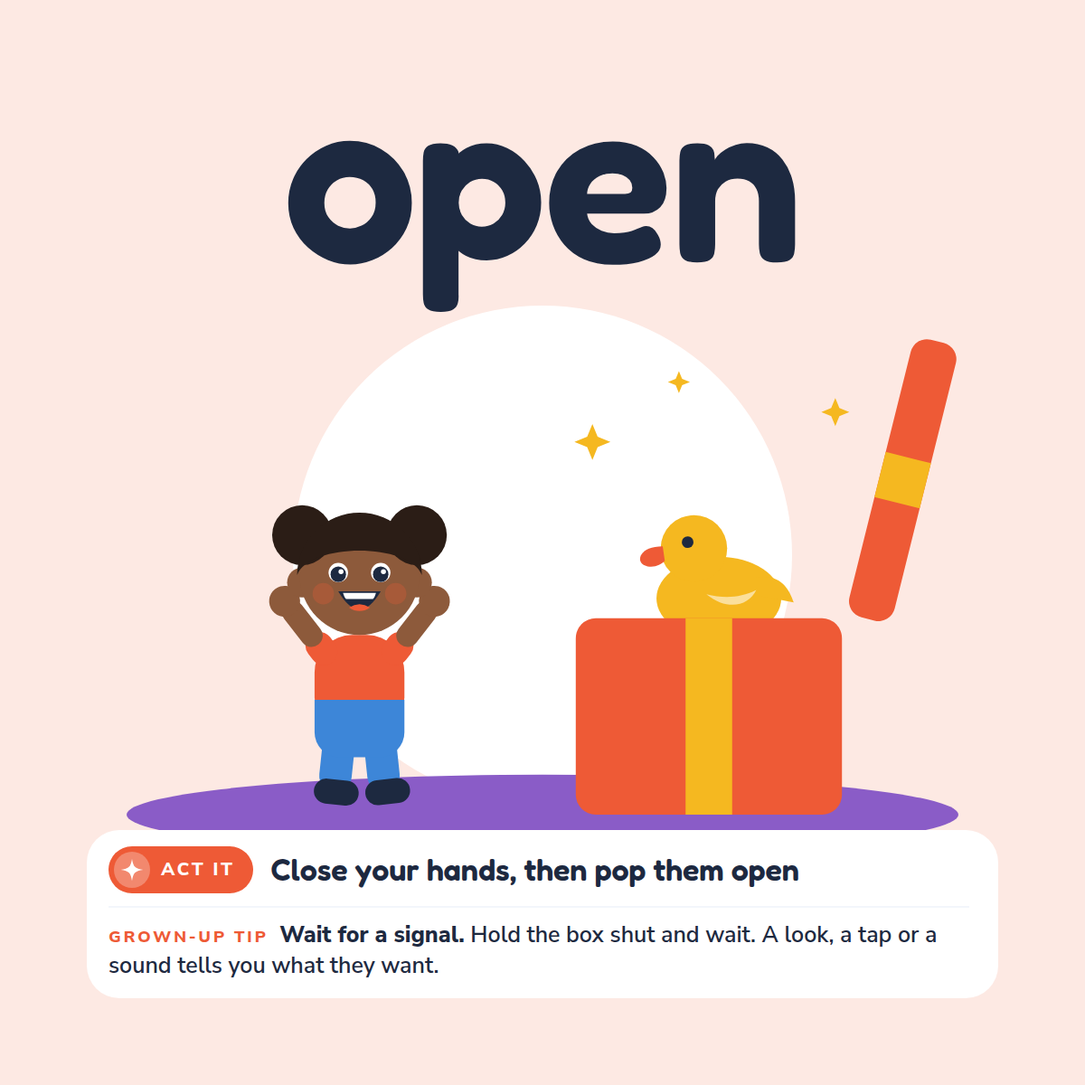
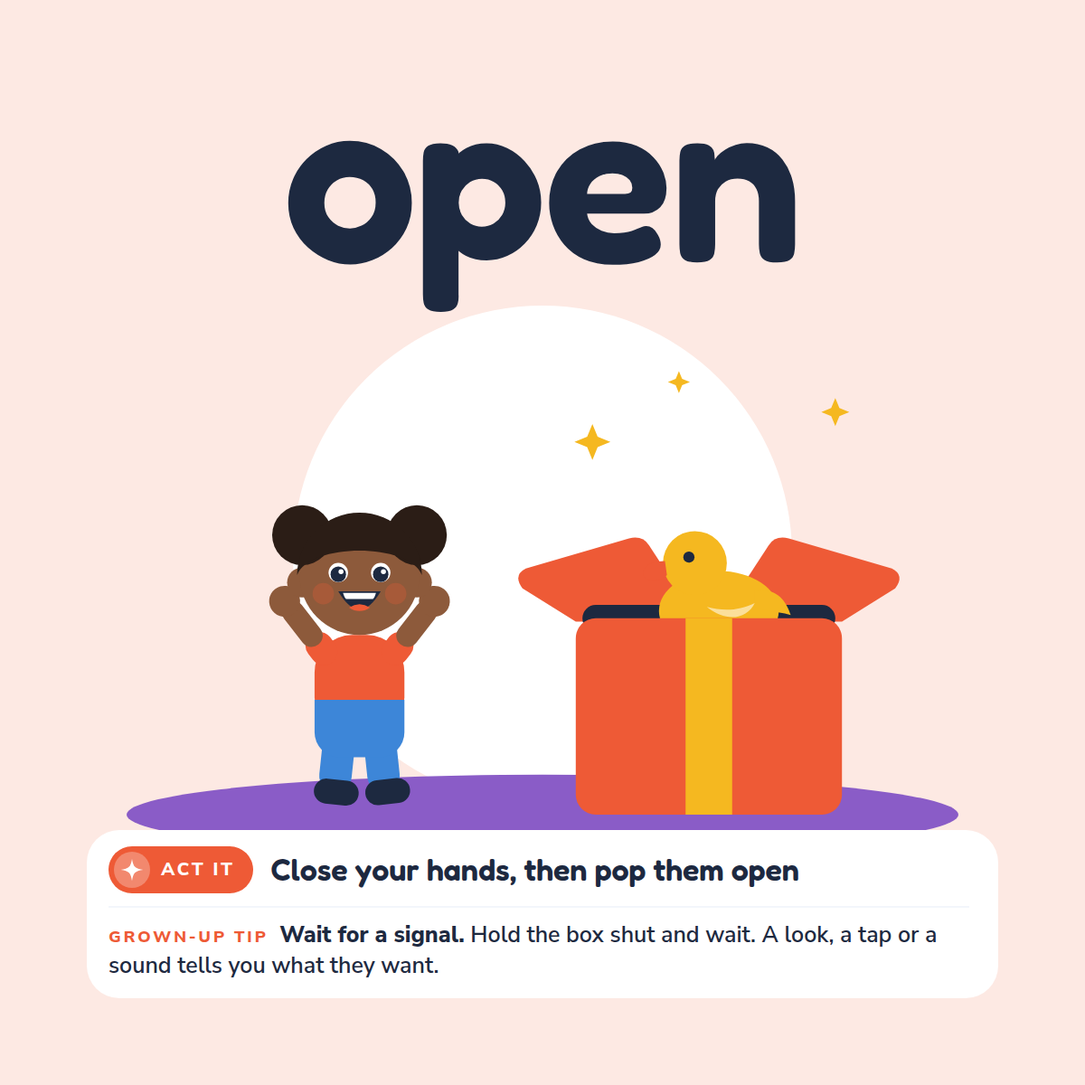
Save latest in-progress workflow output
Claude-Session: https://claude.ai/code/session_013mm46m7T8HwJboSANTcNw4

Changed region(s): [[0.4625, 0.3083, 0.8942, 0.5858]]

diff --git a/products/bored-play-cards/build/build.js b/products/bored-play-cards/build/build.js
@@ -58,15 +58,16 @@ function card(cd, key, num, opts = {}) {
   if (isMini && /^1/.test(cd.a || '') && !/toilet/.test(safe)) safe += ' Under-3s: items bigger than a toilet-paper tube.';
   const numTxt = isMini ? `${key === 'summer' ? 'Summer' : 'Rainy'} · ${String(num).padStart(2, '0')}` : `${band.ages} · ${String(num).padStart(2, '0')}`;
   const seasonIc = isMini ? `<span class="ss">${icon(key === 'summer' ? 'sun' : 'rain', 'ssi')}</span>` : '';
-  return `<div class="card" style="${tvars(th)}"${opts.id ? ` id="${opts.id}"` : ''}><div class="panel">
-  <div class="hd"><span class="age">${seasonIc}${ageTxt}</span><span class="en">${meter(cd.e)}${ENERGY[cd.e]}</span></div>
-  <div class="ti"><div class="tt"><div class="cat">${CATS[cd.c].name}</div><h3>${esc(cd.t)}</h3></div><span class="ci">${icon(cd.c)}</span></div>
+  const M = n => opts.marks ? `<span class="mk m${n}">${n}</span>` : '';
+  return `<div class="card${opts.marks ? ' marked' : ''}" style="${tvars(th)}"${opts.id ? ` id="${opts.id}"` : ''}><div class="panel">
+  <div class="hd"><span class="age">${M(1)}${seasonIc}${ageTxt}</span><span class="en">${M(2)}${meter(cd.e)}${ENERGY[cd.e]}</span></div>
+  <div class="ti"><div class="tt"><div class="cat">${CATS[cd.c].name}</div><h3>${esc(cd.t)}</h3></div><span class="ci">${M(3)}${icon(cd.c)}</span></div>
   <div class="bd">
-    <div class="row"><b>You need</b><p>${esc(cd.n)}</p></div>
-    <div class="row"><b>Try it</b><p>${esc(cd.d)}</p></div>
-    <div class="talk">${icon('talk', 'ti2')}<div><b>Talk</b><p>${esc(cd.k)}</p></div></div>
+    <div class="row">${M(4)}<b>You need</b><p>${esc(cd.n)}</p></div>
+    <div class="row">${M(5)}<b>Try it</b><p>${esc(cd.d)}</p></div>
+    <div class="talk">${M(6)}${icon('talk', 'ti2')}<div><b>Talk</b><p>${esc(cd.k)}</p></div></div>
   </div>
-  <div class="ft">${icon('safe', 'si')}<span>${esc(safe)}</span><i>${numTxt}</i></div>
+  <div class="ft">${M(7)}${icon('safe', 'si')}<span>${esc(safe)}</span><i>${numTxt}</i></div>
 </div></div>`;
 }
 
@@ -351,14 +352,12 @@ function anatomyPage() {
     [6, 'Talk', 'One thing to say or ask while you play.'],
     [7, 'Safety line', 'Read it before you start, every time.'],
   ];
-  const pos = [[18, 12], [202, 12], [218, 46], [14, 104], [14, 146], [14, 236], [14, 296]];
-  const dots = pos.map(([x, y], i) => `<span class="mk" style="left:${x}px;top:${y}px">${i + 1}</span>`).join('');
   const bands = BANDS.map(b => `<div class="bdg" style="background:${TH[b.key].t}"><span style="background:${TH[b.key].m}"></span><b>${b.label}</b></div>`).join('');
   const energies = [['c', 'Calm', 'Sit-down play for winding down, quiet mornings and before bed.'], ['m', 'Medium', 'Up-and-about play: pretend, building, helping, walks.'], ['w', 'Wiggly', 'Big-body play for burning energy, indoors or out.']];
   const cats = Object.entries(CATS).map(([k, v]) => `<div class="ct">${icon(k)}<span>${v.name}</span></div>`).join('');
   const body = `
   <div class="an">
-    <div class="an-card"><div class="scale">${card(sample, 'b35', 17)}${dots}</div></div>
+    <div class="an-card"><div class="scale">${card(sample, 'b35', 17, { marks: true })}</div></div>
     <div class="an-leg">${marks.map(([n, h, t]) => `<div class="lg"><span class="mk s">${n}</span><div><h4>${h}</h4><p>${t}</p></div></div>`).join('')}</div>
   </div>
   <div class="an-row"><span class="kick">Four age bands</span><div class="bands">${bands}<div class="bdg" style="background:${C.tTomato}"><span style="background:${C.tomato}"></span><b>Summer</b></div><div class="bdg" style="background:${C.wash}"><span style="background:${C.ink}"></span><b>Rainy day</b></div></div>
@@ -370,8 +369,15 @@ function anatomyPage() {
 }
 const anatomyCss = `<style>
 .an{display:flex;gap:26px;align-items:flex-start;margin-bottom:14px}
-.an-card{flex:0 0 3.5in;height:4.9in;position:relative}
+.an-card{flex:0 0 3.5in;height:4.75in;position:relative;margin-left:8px}
 .an-card .scale{position:absolute;left:0;top:0;width:240px;height:336px;transform:scale(1.4);transform-origin:0 0}
+.marked .panel{overflow:visible}.marked .hd{border-radius:11px 11px 0 0}
+.marked .age,.marked .en,.marked .ci,.marked .row,.marked .talk,.marked .ft{position:relative}
+.mk.m1,.mk.m4,.mk.m5,.mk.m6,.mk.m7{left:-27px;top:50%;transform:translateY(-50%)}
+.mk.m4,.mk.m5{top:0;transform:none}
+.mk.m2,.mk.m3{right:-24px;top:50%;transform:translateY(-50%)}
+.mk.m3{right:-30px}
+.mk.m1{left:-26px}
 .mk{position:absolute;width:17px;height:17px;border-radius:50%;background:${C.tomato};color:#fff;font-weight:800;font-size:10px;display:flex;align-items:center;justify-content:center;box-shadow:0 0 0 2px #fff;z-index:3}
 .mk.s{position:static;flex:0 0 24px;width:24px;height:24px;font-size:12.5px;box-shadow:none}
 .an-leg{flex:1;padding-top:4px}

diff --git a/products/board-up-go-more/paperback/preview-trim.html b/products/board-up-go-more/paperback/preview-trim.html
@@ -307,8 +307,10 @@ symbol{overflow:visible}
     <p class="tip"><span class="lab">Grown-up tip</span> <strong>Repeat it.</strong> Drop blocks in one at a time: “in… in… in!” Words heard again and again are easier to try.</p>
   </div></div></section>
 <section class="page pbp"><div class="pg word-page" style="position:absolute;top:-12px;left:-12px;transform:scale(1.4);transform-origin:0 0">
-  <svg class="art" viewBox="0 0 600 600" preserveAspectRatio="none" role="img" aria-label="open"><rect x="-20" y="-20" width="640" height="640" fill="#FDE9E3"/><g transform="translate(300,180) scale(.92) translate(-300,-180)"><rect x="0" y="0" width="600" height="600" fill="#FDE9E3"/><circle cx="300" cy="318" r="150" fill="#FFFFFF"/><ellipse cx="300" cy="474" rx="250" ry="24" fill="#8A5CC7"/><use href="#duck" transform="translate(406,334) scale(1.25)" /><rect x="320" y="356" width="160" height="118" rx="12" fill="#EE5A36"/>
-    <rect x="386" y="356" width="28" height="118" fill="#F5B820"/><g transform="rotate(104 486 354)"><rect x="314" y="330" width="172" height="28" rx="10" fill="#EE5A36"/><rect x="386" y="330" width="28" height="28" fill="#F5B820"/></g><g style="--sk:#8D5A3B;--hr:#2B1D16;--sh:#EE5A36;--pa:#3D86D8;--so:#1D2940;--hw:#F5B820" transform="translate(190,433.5) scale(1.5,1.5)"><use href="#t-leg" transform="translate(-8,-4) rotate(6)" /><use href="#t-leg" transform="translate(8,-4) rotate(-6)" /><use href="#t-body" transform="" /><use href="#t-arm" transform="translate(-14,-38) rotate(142)" /><use href="#t-arm" transform="translate(14,-38) rotate(-142)" /><g transform="translate(0,-69) rotate(0)"><use href="#t-head" transform="" /><use href="#face-laugh" transform="" /><use href="#h-puffs" transform="" /></g></g><g transform="translate(330,250) scale(0.9)"><use href="#star"/></g><g transform="translate(476,232) scale(0.7)"><use href="#star"/></g><g transform="translate(382,214) scale(0.55)"><use href="#star"/></g></g></svg>
+  <svg class="art" viewBox="0 0 600 600" preserveAspectRatio="none" role="img" aria-label="open"><rect x="-20" y="-20" width="640" height="640" fill="#FDE9E3"/><g transform="translate(300,180) scale(.92) translate(-300,-180)"><rect x="0" y="0" width="600" height="600" fill="#FDE9E3"/><circle cx="300" cy="318" r="150" fill="#FFFFFF"/><ellipse cx="300" cy="474" rx="250" ry="24" fill="#8A5CC7"/><path d="M320 358L394 358L364 312Q360 306 352 308L290 326Q282 330 288 338Z" fill="#EE5A36"/>
+    <path d="M480 358L406 358L436 312Q440 306 448 308L510 326Q518 330 512 338Z" fill="#EE5A36"/>
+    <rect x="324" y="348" width="152" height="16" rx="8" fill="#1D2940"/><use href="#duck" transform="translate(406,342) scale(1.2)" /><rect x="320" y="356" width="160" height="118" rx="12" fill="#EE5A36"/>
+    <rect x="386" y="356" width="28" height="118" fill="#F5B820"/><g style="--sk:#8D5A3B;--hr:#2B1D16;--sh:#EE5A36;--pa:#3D86D8;--so:#1D2940;--hw:#F5B820" transform="translate(190,433.5) scale(1.5,1.5)"><use href="#t-leg" transform="translate(-8,-4) rotate(6)" /><use href="#t-leg" transform="translate(8,-4) rotate(-6)" /><use href="#t-body" transform="" /><use href="#t-arm" transform="translate(-14,-38) rotate(142)" /><use href="#t-arm" transform="translate(14,-38) rotate(-142)" /><g transform="translate(0,-69) rotate(0)"><use href="#t-head" transform="" /><use href="#face-laugh" transform="" /><use href="#h-puffs" transform="" /></g></g><g transform="translate(330,250) scale(0.9)"><use href="#star"/></g><g transform="translate(476,232) scale(0.7)"><use href="#star"/></g><g transform="translate(382,214) scale(0.55)"><use href="#star"/></g></g></svg>
   <h2 class="word" style="font-size:132px">open</h2>
   <div class="card" style="--acc:#EE5A36">
     <div class="cue"><span class="chip"><svg viewBox="-16 -16 32 32" aria-hidden="true"><circle r="16" fill="currentColor"/><g transform="scale(.82)"><use href="#spark"/></g></svg>Act it</span><span class="cue-tx">Close your hands, then pop them open</span></div>

diff --git a/products/board-up-go-more/paperback/source.html b/products/board-up-go-more/paperback/source.html
@@ -307,8 +307,10 @@ symbol{overflow:visible}
     <p class="tip"><span class="lab">Grown-up tip</span> <strong>Repeat it.</strong> Drop blocks in one at a time: “in… in… in!” Words heard again and again are easier to try.</p>
   </div></div></section>
 <section class="page pbp"><div class="pg word-page" style="position:absolute;top:0;left:-12px;transform:scale(1.4);transform-origin:0 0">
-  <svg class="art" viewBox="0 0 600 600" preserveAspectRatio="none" role="img" aria-label="open"><rect x="-20" y="-20" width="640" height="640" fill="#FDE9E3"/><g transform="translate(300,180) scale(.92) translate(-300,-180)"><rect x="0" y="0" width="600" height="600" fill="#FDE9E3"/><circle cx="300" cy="318" r="150" fill="#FFFFFF"/><ellipse cx="300" cy="474" rx="250" ry="24" fill="#8A5CC7"/><use href="#duck" transform="translate(406,334) scale(1.25)" /><rect x="320" y="356" width="160" height="118" rx="12" fill="#EE5A36"/>
-    <rect x="386" y="356" width="28" height="118" fill="#F5B820"/><g transform="rotate(104 486 354)"><rect x="314" y="330" width="172" height="28" rx="10" fill="#EE5A36"/><rect x="386" y="330" width="28" height="28" fill="#F5B820"/></g><g style="--sk:#8D5A3B;--hr:#2B1D16;--sh:#EE5A36;--pa:#3D86D8;--so:#1D2940;--hw:#F5B820" transform="translate(190,433.5) scale(1.5,1.5)"><use href="#t-leg" transform="translate(-8,-4) rotate(6)" /><use href="#t-leg" transform="translate(8,-4) rotate(-6)" /><use href="#t-body" transform="" /><use href="#t-arm" transform="translate(-14,-38) rotate(142)" /><use href="#t-arm" transform="translate(14,-38) rotate(-142)" /><g transform="translate(0,-69) rotate(0)"><use href="#t-head" transform="" /><use href="#face-laugh" transform="" /><use href="#h-puffs" transform="" /></g></g><g transform="translate(330,250) scale(0.9)"><use href="#star"/></g><g transform="translate(476,232) scale(0.7)"><use href="#star"/></g><g transform="translate(382,214) scale(0.55)"><use href="#star"/></g></g></svg>
+  <svg class="art" viewBox="0 0 600 600" preserveAspectRatio="none" role="img" aria-label="open"><rect x="-20" y="-20" width="640" height="640" fill="#FDE9E3"/><g transform="translate(300,180) scale(.92) translate(-300,-180)"><rect x="0" y="0" width="600" height="600" fill="#FDE9E3"/><circle cx="300" cy="318" r="150" fill="#FFFFFF"/><ellipse cx="300" cy="474" rx="250" ry="24" fill="#8A5CC7"/><path d="M320 358L394 358L364 312Q360 306 352 308L290 326Q282 330 288 338Z" fill="#EE5A36"/>
+    <path d="M480 358L406 358L436 312Q440 306 448 308L510 326Q518 330 512 338Z" fill="#EE5A36"/>
+    <rect x="324" y="348" width="152" height="16" rx="8" fill="#1D2940"/><use href="#duck" transform="translate(406,342) scale(1.2)" /><rect x="320" y="356" width="160" height="118" rx="12" fill="#EE5A36"/>
+    <rect x="386" y="356" width="28" height="118" fill="#F5B820"/><g style="--sk:#8D5A3B;--hr:#2B1D16;--sh:#EE5A36;--pa:#3D86D8;--so:#1D2940;--hw:#F5B820" transform="translate(190,433.5) scale(1.5,1.5)"><use href="#t-leg" transform="translate(-8,-4) rotate(6)" /><use href="#t-leg" transform="translate(8,-4) rotate(-6)" /><use href="#t-body" transform="" /><use href="#t-arm" transform="translate(-14,-38) rotate(142)" /><use href="#t-arm" transform="translate(14,-38) rotate(-142)" /><g transform="translate(0,-69) rotate(0)"><use href="#t-head" transform="" /><use href="#face-laugh" transform="" /><use href="#h-puffs" transform="" /></g></g><g transform="translate(330,250) scale(0.9)"><use href="#star"/></g><g transform="translate(476,232) scale(0.7)"><use href="#star"/></g><g transform="translate(382,214) scale(0.55)"><use href="#star"/></g></g></svg>
   <h2 class="word" style="font-size:132px">open</h2>
   <div class="card" style="--acc:#EE5A36">
     <div class="cue"><span class="chip"><svg viewBox="-16 -16 32 32" aria-hidden="true"><circle r="16" fill="currentColor"/><g transform="scale(.82)"><use href="#spark"/></g></svg>Act it</span><span class="cue-tx">Close your hands, then pop them open</span></div>

diff --git a/products/board-up-go-more/build/debug-board.html b/products/board-up-go-more/build/debug-board.html
@@ -281,8 +281,10 @@ symbol{overflow:visible}
     <p class="tip"><span class="lab">Grown-up tip</span> <strong>Repeat it.</strong> Drop blocks in one at a time: “in… in… in!” Words heard again and again are easier to try.</p>
   </div></section>
 <section class="page pg word-page">
-  <svg class="art" viewBox="0 0 600 600" preserveAspectRatio="none" role="img" aria-label="open"><rect x="-20" y="-20" width="640" height="640" fill="#FDE9E3"/><g transform="translate(300,180) scale(.92) translate(-300,-180)"><rect x="0" y="0" width="600" height="600" fill="#FDE9E3"/><circle cx="300" cy="318" r="150" fill="#FFFFFF"/><ellipse cx="300" cy="474" rx="250" ry="24" fill="#8A5CC7"/><use href="#duck" transform="translate(406,334) scale(1.25)" /><rect x="320" y="356" width="160" height="118" rx="12" fill="#EE5A36"/>
-    <rect x="386" y="356" width="28" height="118" fill="#F5B820"/><g transform="rotate(104 486 354)"><rect x="314" y="330" width="172" height="28" rx="10" fill="#EE5A36"/><rect x="386" y="330" width="28" height="28" fill="#F5B820"/></g><g style="--sk:#8D5A3B;--hr:#2B1D16;--sh:#EE5A36;--pa:#3D86D8;--so:#1D2940;--hw:#F5B820" transform="translate(190,433.5) scale(1.5,1.5)"><use href="#t-leg" transform="translate(-8,-4) rotate(6)" /><use href="#t-leg" transform="translate(8,-4) rotate(-6)" /><use href="#t-body" transform="" /><use href="#t-arm" transform="translate(-14,-38) rotate(142)" /><use href="#t-arm" transform="translate(14,-38) rotate(-142)" /><g transform="translate(0,-69) rotate(0)"><use href="#t-head" transform="" /><use href="#face-laugh" transform="" /><use href="#h-puffs" transform="" /></g></g><g transform="translate(330,250) scale(0.9)"><use href="#star"/></g><g transform="translate(476,232) scale(0.7)"><use href="#star"/></g><g transform="translate(382,214) scale(0.55)"><use href="#star"/></g></g></svg>
+  <svg class="art" viewBox="0 0 600 600" preserveAspectRatio="none" role="img" aria-label="open"><rect x="-20" y="-20" width="640" height="640" fill="#FDE9E3"/><g transform="translate(300,180) scale(.92) translate(-300,-180)"><rect x="0" y="0" width="600" height="600" fill="#FDE9E3"/><circle cx="300" cy="318" r="150" fill="#FFFFFF"/><ellipse cx="300" cy="474" rx="250" ry="24" fill="#8A5CC7"/><path d="M320 358L394 358L364 312Q360 306 352 308L290 326Q282 330 288 338Z" fill="#EE5A36"/>
+    <path d="M480 358L406 358L436 312Q440 306 448 308L510 326Q518 330 512 338Z" fill="#EE5A36"/>
+    <rect x="324" y="348" width="152" height="16" rx="8" fill="#1D2940"/><use href="#duck" transform="translate(406,342) scale(1.2)" /><rect x="320" y="356" width="160" height="118" rx="12" fill="#EE5A36"/>
+    <rect x="386" y="356" width="28" height="118" fill="#F5B820"/><g style="--sk:#8D5A3B;--hr:#2B1D16;--sh:#EE5A36;--pa:#3D86D8;--so:#1D2940;--hw:#F5B820" transform="translate(190,433.5) scale(1.5,1.5)"><use href="#t-leg" transform="translate(-8,-4) rotate(6)" /><use href="#t-leg" transform="translate(8,-4) rotate(-6)" /><use href="#t-body" transform="" /><use href="#t-arm" transform="translate(-14,-38) rotate(142)" /><use href="#t-arm" transform="translate(14,-38) rotate(-142)" /><g transform="translate(0,-69) rotate(0)"><use href="#t-head" transform="" /><use href="#face-laugh" transform="" /><use href="#h-puffs" transform="" /></g></g><g transform="translate(330,250) scale(0.9)"><use href="#star"/></g><g transform="translate(476,232) scale(0.7)"><use href="#star"/></g><g transform="translate(382,214) scale(0.55)"><use href="#star"/></g></g></svg>
   <h2 class="word" style="font-size:132px">open</h2>
   <div class="card" style="--acc:#EE5A36">
     <div class="cue"><span class="chip"><svg viewBox="-16 -16 32 32" aria-hidden="true"><circle r="16" fill="currentColor"/><g transform="scale(.82)"><use href="#spark"/></g></svg>Act it</span><span class="cue-tx">Close your hands, then pop them open</span></div>

diff --git a/products/board-up-go-more/source.html b/products/board-up-go-more/source.html
@@ -281,8 +281,10 @@ symbol{overflow:visible}
     <p class="tip"><span class="lab">Grown-up tip</span> <strong>Repeat it.</strong> Drop blocks in one at a time: “in… in… in!” Words heard again and again are easier to try.</p>
   </div></section>
 <section class="page pg word-page">
-  <svg class="art" viewBox="0 0 600 600" preserveAspectRatio="none" role="img" aria-label="open"><rect x="-20" y="-20" width="640" height="640" fill="#FDE9E3"/><g transform="translate(300,180) scale(.92) translate(-300,-180)"><rect x="0" y="0" width="600" height="600" fill="#FDE9E3"/><circle cx="300" cy="318" r="150" fill="#FFFFFF"/><ellipse cx="300" cy="474" rx="250" ry="24" fill="#8A5CC7"/><use href="#duck" transform="translate(406,334) scale(1.25)" /><rect x="320" y="356" width="160" height="118" rx="12" fill="#EE5A36"/>
-    <rect x="386" y="356" width="28" height="118" fill="#F5B820"/><g transform="rotate(104 486 354)"><rect x="314" y="330" width="172" height="28" rx="10" fill="#EE5A36"/><rect x="386" y="330" width="28" height="28" fill="#F5B820"/></g><g style="--sk:#8D5A3B;--hr:#2B1D16;--sh:#EE5A36;--pa:#3D86D8;--so:#1D2940;--hw:#F5B820" transform="translate(190,433.5) scale(1.5,1.5)"><use href="#t-leg" transform="translate(-8,-4) rotate(6)" /><use href="#t-leg" transform="translate(8,-4) rotate(-6)" /><use href="#t-body" transform="" /><use href="#t-arm" transform="translate(-14,-38) rotate(142)" /><use href="#t-arm" transform="translate(14,-38) rotate(-142)" /><g transform="translate(0,-69) rotate(0)"><use href="#t-head" transform="" /><use href="#face-laugh" transform="" /><use href="#h-puffs" transform="" /></g></g><g transform="translate(330,250) scale(0.9)"><use href="#star"/></g><g transform="translate(476,232) scale(0.7)"><use href="#star"/></g><g transform="translate(382,214) scale(0.55)"><use href="#star"/></g></g></svg>
+  <svg class="art" viewBox="0 0 600 600" preserveAspectRatio="none" role="img" aria-label="open"><rect x="-20" y="-20" width="640" height="640" fill="#FDE9E3"/><g transform="translate(300,180) scale(.92) translate(-300,-180)"><rect x="0" y="0" width="600" height="600" fill="#FDE9E3"/><circle cx="300" cy="318" r="150" fill="#FFFFFF"/><ellipse cx="300" cy="474" rx="250" ry="24" fill="#8A5CC7"/><path d="M320 358L394 358L364 312Q360 306 352 308L290 326Q282 330 288 338Z" fill="#EE5A36"/>
+    <path d="M480 358L406 358L436 312Q440 306 448 308L510 326Q518 330 512 338Z" fill="#EE5A36"/>
+    <rect x="324" y="348" width="152" height="16" rx="8" fill="#1D2940"/><use href="#duck" transform="translate(406,342) scale(1.2)" /><rect x="320" y="356" width="160" height="118" rx="12" fill="#EE5A36"/>
+    <rect x="386" y="356" width="28" height="118" fill="#F5B820"/><g style="--sk:#8D5A3B;--hr:#2B1D16;--sh:#EE5A36;--pa:#3D86D8;--so:#1D2940;--hw:#F5B820" transform="translate(190,433.5) scale(1.5,1.5)"><use href="#t-leg" transform="translate(-8,-4) rotate(6)" /><use href="#t-leg" transform="translate(8,-4) rotate(-6)" /><use href="#t-body" transform="" /><use href="#t-arm" transform="translate(-14,-38) rotate(142)" /><use href="#t-arm" transform="translate(14,-38) rotate(-142)" /><g transform="translate(0,-69) rotate(0)"><use href="#t-head" transform="" /><use href="#face-laugh" transform="" /><use href="#h-puffs" transform="" /></g></g><g transform="translate(330,250) scale(0.9)"><use href="#star"/></g><g transform="translate(476,232) scale(0.7)"><use href="#star"/></g><g transform="translate(382,214) scale(0.55)"><use href="#star"/></g></g></svg>
   <h2 class="word" style="font-size:132px">open</h2>
   <div class="card" style="--acc:#EE5A36">
     <div class="cue"><span class="chip"><svg viewBox="-16 -16 32 32" aria-hidden="true"><circle r="16" fill="currentColor"/><g transform="scale(.82)"><use href="#spark"/></g></svg>Act it</span><span class="cue-tx">Close your hands, then pop them open</span></div>

diff --git a/products/picture-tablet-slept/cover-kdp-paperback.html b/products/picture-tablet-slept/cover-kdp-paperback.html
@@ -156,7 +156,7 @@ html,body{width:1663.2096px;height:840px;overflow:hidden}
   <rect x="-40" y="-2" width="80" height="10" rx="5" fill="#C08457" />
 </symbol>
 </defs></svg><div class="wrap" style="width:1663.2096px;height:840px"><div class="panel" style="left:0px;top:0px;width:828px;height:840px;"><div class="canvas" style="left:-188px;top:-188px">
-<svg class="art" xmlns="http://www.w3.org/2000/svg" viewBox="-200 -200 1216 1216" width="1216" height="1216"><rect x="-200" y="-200" width="1216" height="1216" rx="0" fill="#3D86D8" /><rect x="-200" y="700" width="1216" height="520" rx="0" fill="#2FA36B" /><use href="#star" fill="#F5B820" stroke="#F5B820" transform="translate(740 90) rotate(0) scale(0.4)"/><use href="#star" fill="#FFFFFF" stroke="#FFFFFF" transform="translate(470 560) rotate(0) scale(0.3)"/><use href="#star" fill="#F5B820" stroke="#F5B820" transform="translate(700 520) rotate(0) scale(0.3)"/><g transform="translate(400 700) scale(0.6 0.6)"><use href="#dog-happy" transform="translate(0 0) scale(1)" /></g><g transform="translate(640 520) scale(0.36) rotate(6)"><use href="#tablet-sleeping" transform="translate(0 0) scale(1)" /></g><g font-family="Fredoka, Nunito Sans, sans-serif" font-weight="700" fill="#F5B820">
+<svg class="art" xmlns="http://www.w3.org/2000/svg" viewBox="-200 -200 1216 1216" width="1216" height="1216"><rect x="-200" y="-200" width="1216" height="1216" rx="0" fill="#3D86D8" /><rect x="-200" y="700" width="1216" height="520" rx="0" fill="#2FA36B" /><use href="#star" fill="#F5B820" stroke="#F5B820" transform="translate(740 90) rotate(0) scale(0.4)"/><use href="#star" fill="#FFFFFF" stroke="#FFFFFF" transform="translate(470 560) rotate(0) scale(0.3)"/><use href="#star" fill="#F5B820" stroke="#F5B820" transform="translate(700 520) rotate(0) scale(0.3)"/><g transform="translate(440 700) scale(0.6 0.6)"><use href="#dog-happy" transform="translate(0 0) scale(1)" /></g><g transform="translate(640 520) scale(0.36) rotate(6)"><use href="#tablet-sleeping" transform="translate(0 0) scale(1)" /></g><g font-family="Fredoka, Nunito Sans, sans-serif" font-weight="700" fill="#F5B820">
   <text x="730" y="520" font-size="16">z</text><text x="742.8" y="502.4" font-size="21.6">z</text><text x="759.6" y="479.2" font-size="28.8">Z</text></g><use href="#block-c" fill="#EE5A36" transform="translate(60 452) rotate(-8 25.6 25.6) scale(0.8)"/><g transform="translate(160 516) scale(0.62) rotate(-6)"><use href="#boot" transform="translate(0 0) scale(1)" /></g><g transform="translate(250 518) scale(0.12) rotate(14)"><use href="#rocket" transform="translate(0 0) scale(1)" /></g><g transform="translate(350 496) scale(0.7)"><use href="#pancake" transform="translate(0 0) scale(1)" /></g><use href="#book" fill="#F5B820" transform="translate(420 448) rotate(6) scale(0.56)"/><g transform="translate(520 492) scale(0.6)"><use href="#duck" transform="translate(0 0) scale(1)" /></g></svg>
 <div class="inner"><div class="t blurb" style="left:56px;top:60px;width:690px;"><p class="blurb-h">Shhh… the tablet is sleeping.<br>So what shall we do?</p>
 <p>Build a tower (CRASH!). Splash every puddle. Blast off in a cardboard-box rocket with Biscuit the dog as co-pilot. Flip pancakes with Papa, then find the perfect bedtime book.</p>

diff --git a/products/picture-tablet-slept/cover-ingramspark-hardcover.html b/products/picture-tablet-slept/cover-ingramspark-hardcover.html
@@ -156,7 +156,7 @@ html,body{width:1836.48px;height:960px;overflow:hidden}
   <rect x="-40" y="-2" width="80" height="10" rx="5" fill="#C08457" />
 </symbol>
 </defs></svg><div class="wrap" style="width:1836.48px;height:960px"><div class="panel" style="left:0px;top:0px;width:906.24px;height:960px;"><div class="canvas" style="left:-149px;top:-128px">
-<svg class="art" xmlns="http://www.w3.org/2000/svg" viewBox="-200 -200 1216 1216" width="1216" height="1216"><rect x="-200" y="-200" width="1216" height="1216" rx="0" fill="#3D86D8" /><rect x="-200" y="700" width="1216" height="520" rx="0" fill="#2FA36B" /><use href="#star" fill="#F5B820" stroke="#F5B820" transform="translate(740 90) rotate(0) scale(0.4)"/><use href="#star" fill="#FFFFFF" stroke="#FFFFFF" transform="translate(470 560) rotate(0) scale(0.3)"/><use href="#star" fill="#F5B820" stroke="#F5B820" transform="translate(700 520) rotate(0) scale(0.3)"/><g transform="translate(400 700) scale(0.6 0.6)"><use href="#dog-happy" transform="translate(0 0) scale(1)" /></g><g transform="translate(640 520) scale(0.36) rotate(6)"><use href="#tablet-sleeping" transform="translate(0 0) scale(1)" /></g><g font-family="Fredoka, Nunito Sans, sans-serif" font-weight="700" fill="#F5B820">
+<svg class="art" xmlns="http://www.w3.org/2000/svg" viewBox="-200 -200 1216 1216" width="1216" height="1216"><rect x="-200" y="-200" width="1216" height="1216" rx="0" fill="#3D86D8" /><rect x="-200" y="700" width="1216" height="520" rx="0" fill="#2FA36B" /><use href="#star" fill="#F5B820" stroke="#F5B820" transform="translate(740 90) rotate(0) scale(0.4)"/><use href="#star" fill="#FFFFFF" stroke="#FFFFFF" transform="translate(470 560) rotate(0) scale(0.3)"/><use href="#star" fill="#F5B820" stroke="#F5B820" transform="translate(700 520) rotate(0) scale(0.3)"/><g transform="translate(440 700) scale(0.6 0.6)"><use href="#dog-happy" transform="translate(0 0) scale(1)" /></g><g transform="translate(640 520) scale(0.36) rotate(6)"><use href="#tablet-sleeping" transform="translate(0 0) scale(1)" /></g><g font-family="Fredoka, Nunito Sans, sans-serif" font-weight="700" fill="#F5B820">
   <text x="730" y="520" font-size="16">z</text><text x="742.8" y="502.4" font-size="21.6">z</text><text x="759.6" y="479.2" font-size="28.8">Z</text></g><use href="#block-c" fill="#EE5A36" transform="translate(60 452) rotate(-8 25.6 25.6) scale(0.8)"/><g transform="translate(160 516) scale(0.62) rotate(-6)"><use href="#boot" transform="translate(0 0) scale(1)" /></g><g transform="translate(250 518) scale(0.12) rotate(14)"><use href="#rocket" transform="translate(0 0) scale(1)" /></g><g transform="translate(350 496) scale(0.7)"><use href="#pancake" transform="translate(0 0) scale(1)" /></g><use href="#book" fill="#F5B820" transform="translate(420 448) rotate(6) scale(0.56)"/><g transform="translate(520 492) scale(0.6)"><use href="#duck" transform="translate(0 0) scale(1)" /></g></svg>
 <div class="inner"><div class="t blurb" style="left:56px;top:60px;width:690px;"><p class="blurb-h">Shhh… the tablet is sleeping.<br>So what shall we do?</p>
 <p>Build a tower (CRASH!). Splash every puddle. Blast off in a cardboard-box rocket with Biscuit the dog as co-pilot. Flip pancakes with Papa, then find the perfect bedtime book.</p>

diff --git a/products/picture-tablet-slept/back.html b/products/picture-tablet-slept/back.html
@@ -153,7 +153,7 @@ html,body{width:816px;height:816px;overflow:hidden}</style></head><body><svg wid
   <rect x="-40" y="-2" width="80" height="10" rx="5" fill="#C08457" />
 </symbol>
 </defs></svg><div class="panel" style="left:0px;top:0px;width:816px;height:816px;"><div class="canvas" style="left:-200px;top:-200px">
-<svg class="art" xmlns="http://www.w3.org/2000/svg" viewBox="-200 -200 1216 1216" width="1216" height="1216"><rect x="-200" y="-200" width="1216" height="1216" rx="0" fill="#3D86D8" /><rect x="-200" y="700" width="1216" height="520" rx="0" fill="#2FA36B" /><use href="#star" fill="#F5B820" stroke="#F5B820" transform="translate(740 90) rotate(0) scale(0.4)"/><use href="#star" fill="#FFFFFF" stroke="#FFFFFF" transform="translate(470 560) rotate(0) scale(0.3)"/><use href="#star" fill="#F5B820" stroke="#F5B820" transform="translate(700 520) rotate(0) scale(0.3)"/><g transform="translate(400 700) scale(0.6 0.6)"><use href="#dog-happy" transform="translate(0 0) scale(1)" /></g><g transform="translate(640 520) scale(0.36) rotate(6)"><use href="#tablet-sleeping" transform="translate(0 0) scale(1)" /></g><g font-family="Fredoka, Nunito Sans, sans-serif" font-weight="700" fill="#F5B820">
+<svg class="art" xmlns="http://www.w3.org/2000/svg" viewBox="-200 -200 1216 1216" width="1216" height="1216"><rect x="-200" y="-200" width="1216" height="1216" rx="0" fill="#3D86D8" /><rect x="-200" y="700" width="1216" height="520" rx="0" fill="#2FA36B" /><use href="#star" fill="#F5B820" stroke="#F5B820" transform="translate(740 90) rotate(0) scale(0.4)"/><use href="#star" fill="#FFFFFF" stroke="#FFFFFF" transform="translate(470 560) rotate(0) scale(0.3)"/><use href="#star" fill="#F5B820" stroke="#F5B820" transform="translate(700 520) rotate(0) scale(0.3)"/><g transform="translate(440 700) scale(0.6 0.6)"><use href="#dog-happy" transform="translate(0 0) scale(1)" /></g><g transform="translate(640 520) scale(0.36) rotate(6)"><use href="#tablet-sleeping" transform="translate(0 0) scale(1)" /></g><g font-family="Fredoka, Nunito Sans, sans-serif" font-weight="700" fill="#F5B820">
   <text x="730" y="520" font-size="16">z</text><text x="742.8" y="502.4" font-size="21.6">z</text><text x="759.6" y="479.2" font-size="28.8">Z</text></g><use href="#block-c" fill="#EE5A36" transform="translate(60 452) rotate(-8 25.6 25.6) scale(0.8)"/><g transform="translate(160 516) scale(0.62) rotate(-6)"><use href="#boot" transform="translate(0 0) scale(1)" /></g><g transform="translate(250 518) scale(0.12) rotate(14)"><use href="#rocket" transform="translate(0 0) scale(1)" /></g><g transform="translate(350 496) scale(0.7)"><use href="#pancake" transform="translate(0 0) scale(1)" /></g><use href="#book" fill="#F5B820" transform="translate(420 448) rotate(6) scale(0.56)"/><g transform="translate(520 492) scale(0.6)"><use href="#duck" transform="translate(0 0) scale(1)" /></g></svg>
 <div class="inner"><div class="t blurb" style="left:56px;top:60px;width:690px;"><p class="blurb-h">Shhh… the tablet is sleeping.<br>So what shall we do?</p>
 <p>Build a tower (CRASH!). Splash every puddle. Blast off in a cardboard-box rocket with Biscuit the dog as co-pilot. Flip pancakes with Papa, then find the perfect bedtime book.</p>

diff --git a/products/board-up-go-more/build/build.js b/products/board-up-go-more/build/build.js
@@ -367,14 +367,16 @@ scenes.in = () => {
 
 scenes.open = () => {
   const bx = 400, top = 356;
-  const duck = use('duck', `translate(${bx + 6},${top - 22}) scale(1.25)`);
+  const duck = use('duck', `translate(${bx + 6},${top - 14}) scale(1.2)`);
   const box = `<rect x="${bx - 80}" y="${top}" width="160" height="${F - top}" rx="12" fill="${C.tomato}"/>
     <rect x="${bx - 14}" y="${top}" width="28" height="${F - top}" fill="${C.sun}"/>`;
-  const lid = `<g transform="rotate(104 ${bx + 86} ${top - 2})"><rect x="${bx - 86}" y="${top - 26}" width="172" height="28" rx="10" fill="${C.tomato}"/><rect x="${bx - 14}" y="${top - 26}" width="28" height="28" fill="${C.sun}"/></g>`;
+  const lid = `<path d="M${bx - 80} ${top + 2}L${bx - 6} ${top + 2}L${bx - 36} ${top - 44}Q${bx - 40} ${top - 50} ${bx - 48} ${top - 48}L${bx - 110} ${top - 30}Q${bx - 118} ${top - 26} ${bx - 112} ${top - 18}Z" fill="${C.tomato}"/>
+    <path d="M${bx + 80} ${top + 2}L${bx + 6} ${top + 2}L${bx + 36} ${top - 44}Q${bx + 40} ${top - 50} ${bx + 48} ${top - 48}L${bx + 110} ${top - 30}Q${bx + 118} ${top - 26} ${bx + 112} ${top - 18}Z" fill="${C.tomato}"/>
+    <rect x="${bx - 76}" y="${top - 8}" width="152" height="16" rx="8" fill="${C.ink}"/>`;
   const k = Object.assign({}, KIDS.A, { x: 190, y: F - 27 * 1.5, s: 1.5, aL: 142, aR: -142, face: 'laugh', lL: 6, lR: -6 });
   const sparks = [[bx - 70, 250, .9], [bx + 76, 232, .7], [bx - 18, 214, .55]].map(([x, y, s]) => `<g transform="translate(${x},${y}) scale(${s})"><use href="#star"/></g>`).join('');
   const rug = `<ellipse cx="300" cy="${F}" rx="250" ry="24" fill="${C.plum}"/>`;
-  return bg(C.tTomato) + circle(300, 318, 150, '#FFFFFF') + rug + duck + box + lid + kid(k) + sparks;
+  return bg(C.tTomato) + circle(300, 318, 150, '#FFFFFF') + rug + lid + duck + box + kid(k) + sparks;
 };
 
 scenes.help = () => {

diff --git a/products/picture-tablet-slept/build.js b/products/picture-tablet-slept/build.js
@@ -661,7 +661,7 @@ const FRONT_TEXT = [{ x: 44, y: 40, w: 728, cls: 'title', html: `The Day the<br>
 function backCover() {
   let s = R(-200, -200, 1216, 1216, C.sky) + R(-200, 700, 1216, 520, C.grass);
   s += stars([[740, 90, .4, C.sun], [470, 560, .3, C.paper], [700, 520, .3, C.sun]], C.sun);
-  s += dog(400, 700, 0.6, 'dog-happy') + G('translate(640 520) scale(0.36) rotate(6)', U('tablet-sleeping')) + zzz(730, 520, 0.4, C.sun);
+  s += dog(440, 700, 0.6, 'dog-happy') + G('translate(640 520) scale(0.36) rotate(6)', U('tablet-sleeping')) + zzz(730, 520, 0.4, C.sun);
   // what happens in the story, as a row of little icons
   s += block(60, 452, C.tomato, 'c', 0.8, -8) + G('translate(160 516) scale(0.62) rotate(-6)', U('boot')) + G('translate(250 518) scale(0.12) rotate(14)', U('rocket')) +
     G('translate(350 496) scale(0.7)', U('pancake')) + bookU(420, 448, C.sun, 0.56, 6) + G('translate(520 492) scale(0.6)', U('duck'));

diff --git a/site-concepts/B-toy-shop-bold/styles.css b/site-concepts/B-toy-shop-bold/styles.css
@@ -1081,3 +1081,4 @@ select.inp { appearance: none; background-image: linear-gradient(45deg, transpar
   .hero-c .stage .book--pb { width: 50cqmin; transform: translate(44%, -20%) rotate(-5deg); }
   .hero-mini { max-width: 92%; }
 }
+.card.c1 p, .card.c3 p { visibility: hidden; }
